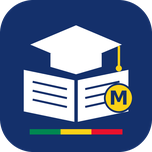
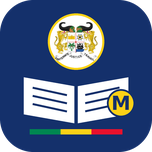
Fiche d'inscription au CEP au modèle officiel, caméra avant / arrière, icône avec les armoiries (depuis EdugestionPro)
Claude-Session: https://claude.ai/code/session_01UeEHkCkcyPMniyrgFNfTcP

Changed region(s): [[0.1316, 0.0789, 0.8947, 0.8158]]

diff --git a/js/docs-modeles.js b/js/docs-modeles.js
@@ -312,111 +312,123 @@
     + echapper(valeur || '') + '</span>';
 
   /**
-   * Reprend la mise en page de la fiche transmise par la Direction
-   * Départementale : mêmes rubriques, mêmes mentions, même ordre.
+   * Fiche d'inscription au CEP : même mise en page que SCOLARIS et GESCOL (modèle Word de la DDEMP reproduit
+   * au point près) — en-tête du MEMP, direction départementale à gauche, titre en cartouche vert à droite,
+   * session et centre, « ÉCOLE DE PROVENANCE », « CANDIDAT (E) » avec photo, « TRÈS IMPORTANT », « AGENT DE
+   * LA DDEMP », signature et cachet du directeur. Les positions sont celles du modèle, en points depuis le haut.
    */
   function ficheCEP(eleve, ins, ecole, annee, fiche, cep, contexte, signataire) {
-    contexte = contexte || {};
-    fiche = fiche || {};
-    const session = fiche.session || ('JUIN ' + (new Date().getFullYear() + 1));
-    const publique = !ecole || ecole.statut !== 'PRIVEE';
+    contexte = contexte || {}; fiche = fiche || {}; eleve = eleve || {}; ecole = ecole || {};
+    const VERT = '#194730', OR = '#A3780D', OR_CL = '#C9962B', BORD = '#BAC4BA', TXT = '#1C1A14', GRIS = '#6B6553';
+    const KY = 0.955, X = x => (x - 24).toFixed(1) + 'pt', Y = y => ((y - 3) * KY).toFixed(1) + 'pt';
+    const out = [];
+    const txt = (x, y, t, o) => {
+      o = o || {};
+      const taille = o.taille || 7.6;
+      out.push('<div style="position:absolute;left:' + (o.centre ? X(o.centre - 200) : X(x)) + ';top:' + (((y - 3) * KY) - taille * 0.85).toFixed(1) + 'pt;'
+        + (o.centre ? 'width:400pt;text-align:center;' : '') + 'white-space:nowrap;font:' + (o.italique ? 'italic ' : '') + (o.gras === false ? '400 ' : '700 ')
+        + taille + 'pt \'Times New Roman\',Times,serif;color:' + (o.coul || VERT) + '">' + echapper(t) + '</div>');
+    };
+    const lab = (x, y, t, taille, coul, gras, ital) => { txt(x, y, t, { taille, coul: coul || VERT, gras, italique: ital }); return x + largeurTimes(t, taille || 7.6, gras !== false); };
+    const champ = (x1, x2, y, v, taille, gras) => {
+      out.push('<div style="position:absolute;left:' + X(x1) + ';top:' + Y(y - 9) + ';width:' + (x2 - x1).toFixed(1) + 'pt;height:' + (10.5 * KY).toFixed(1)
+        + 'pt;border-bottom:.6pt dotted ' + BORD + ';overflow:hidden;white-space:nowrap;text-overflow:ellipsis;padding-left:2pt;box-sizing:border-box;'
+        + 'font:' + (gras ? '700 ' : '400 ') + (taille || 9) + 'pt \'Times New Roman\',Times,serif;line-height:' + (10.5 * KY).toFixed(1) + 'pt;color:' + TXT + '">' + echapper(v || '') + '</div>');
+    };
+    const caseC = (x, y, coche, l) => {
+      out.push('<div style="position:absolute;left:' + X(x) + ';top:' + Y(y - 6) + ';width:7pt;height:7pt;border:.6pt solid ' + TXT + ';font:700 7pt Arial;line-height:7pt;text-align:center;color:' + TXT + '">' + (coche ? 'X' : '') + '</div>');
+      txt(x + 10, y, l, { taille: 8.5, coul: TXT, gras: !!coche });
+    };
+    const section = (y1, y2, titre) => {
+      out.push('<div style="position:absolute;left:' + X(28) + ';top:' + Y(y1) + ';width:523pt;height:' + ((y2 - y1) * KY).toFixed(1) + 'pt;border:.7pt solid ' + BORD + ';box-sizing:border-box"></div>');
+      out.push('<div style="position:absolute;left:' + X(28) + ';top:' + Y(y1) + ';width:523pt;height:' + (15 * KY).toFixed(1) + 'pt;background:' + VERT
+        + ';border-radius:2.5pt;color:#fff;font:700 8.3pt \'Times New Roman\',Times,serif;line-height:' + (15 * KY).toFixed(1) + 'pt;padding-left:11pt;box-sizing:border-box">' + echapper(titre) + '</div>');
+    };
+    const publique = ecole.statut !== 'PRIVEE';
+    const auj = U.dateCourte(new Date().toISOString());
+    const naiss = ((eleve.date_naissance ? U.dateCourte(eleve.date_naissance) : '') + (eleve.lieu_naissance ? ' à ' + eleve.lieu_naissance : '')).trim();
+    const contactParent = ((fiche.parent_contact || '') + (fiche.degre_parente ? ' (' + fiche.degre_parente + ')' : '')).trim();
+    const session = fiche.session || ('JUIN ' + (new Date().getFullYear() + (new Date().getMonth() >= 8 ? 1 : 0)));
 
-    return '<div class="fiche-cep">'
-      + enteteMEMP(contexte.departement)
-      + '<h2>FICHE D’INSCRIPTION À L’EXAMEN DU<br>CERTIFICAT D’ÉTUDES PRIMAIRES (CEP)</h2>'
-      + '<p class="option">OPTION : CEP + entrée en 6ᵉ '
-      + case_(fiche.option_6e !== false) + ' &nbsp;&nbsp; CEP seul ' + case_(fiche.option_6e === false)
-      + ' <em>(rayer la mention inutile)</em></p>'
-      + '<table class="bandeau-session"><tr>'
-      + '<td>SESSION DE : <strong>' + echapper(session) + '</strong></td>'
-      + '<td>CENTRE DE : <strong>' + echapper(fiche.centre || '—') + '</strong></td>'
-      + '</tr></table>'
-
-      + '<h3 class="rubrique">ÉCOLE DE PROVENANCE</h3>'
-      + '<table class="fiche-champs">'
-      + '<tr><td>COMMUNE DE</td><th>' + ligne_(contexte.commune) + '</th></tr>'
-      + '<tr><td>CIRCONSCRIPTION SCOLAIRE DE</td><th>' + ligne_(contexte.circonscription) + '</th></tr>'
-      + '<tr><td>NOM DE L’ÉCOLE</td><th>' + ligne_(ecole ? ecole.nom : '') + '</th></tr>'
-      + '<tr><td>STATUT DE L’ÉCOLE</td><th>'
-      + case_(publique) + ' Publique &nbsp;&nbsp;&nbsp;' + case_(!publique) + ' Privée</th></tr>'
-      + '<tr><td>NOM ET PRÉNOM DU DIRECTEUR OU DE LA DIRECTRICE</td><th>'
-      + ligne_(contexte.directeur) + '</th></tr>'
-      + '<tr><td>CONTACT TÉLÉPHONIQUE DU DIRECTEUR OU DE LA DIRECTRICE</td><th>'
-      + ligne_(contexte.directeurContact) + '</th></tr>'
-      + '</table>'
-
-      + '<h3 class="rubrique">CANDIDAT (E)</h3>'
-      + '<div class="candidat">'
-      + '<table class="fiche-champs">'
-      + '<tr><td>NOM <em>(à écrire en lettres capitales)</em></td><th>'
-      + ligne_((eleve.nom || '').toUpperCase()) + '</th></tr>'
-      + '<tr><td>PRÉNOMS <em>(tous les prénoms sans abréviation, suivant l’ordre et l’orthographe '
-      + 'de la pièce d’état civil)</em></td><th>' + ligne_(eleve.prenoms) + '</th></tr>'
-      + '<tr><td>SEXE</td><th>' + ligne_(eleve.sexe === 'F' ? 'Féminin' : (eleve.sexe === 'M' ? 'Masculin' : '')) + '</th></tr>'
-      + '<tr><td>DATE ET LIEU DE NAISSANCE</td><th>'
-      + ligne_((eleve.date_naissance ? U.dateCourte(eleve.date_naissance) : '') + ' à ' + (eleve.lieu_naissance || '')) + '</th></tr>'
-      + '<tr><td>NUMÉRO EDUCMASTER</td><th>' + ligne_(eleve.educmaster_matricule) + '</th></tr>'
-      + '</table>'
-      + '<div class="candidat-visuels">'
-      + '<div class="photo-candidat"><small>Photo du candidat</small></div>'
-      + qrEleve(eleve, ins, ecole, annee, 78)
-      + '</div>'
-      + '</div>'
-
-      + '<table class="fiche-champs">'
-      + '<tr><td>ÉTABLISSEMENTS CHOISIS <em>(trois établissements par ordre de préférence, '
-      + 'sans abréviation)</em></td><th>'
-      + '1 - ' + ligne_(fiche.etablissement_1) + '<br>'
-      + '2 - ' + ligne_(fiche.etablissement_2) + '<br>'
-      + '3 - ' + ligne_(fiche.etablissement_3) + '</th></tr>'
-      + '<tr><td>RÉSIDENCE DES PARENTS</td><th>' + ligne_(fiche.residence_parents) + '</th></tr>'
-      + '<tr><td>DISPENSE D’ÂGE</td><th>'
-      + case_(fiche.dispense_age) + ' Oui &nbsp;&nbsp;&nbsp;' + case_(!fiche.dispense_age) + ' Non</th></tr>'
-      + '<tr><td>DISPENSE DE SPORT</td><th>'
-      + case_(fiche.dispense_sport) + ' Oui &nbsp;&nbsp;&nbsp;' + case_(!fiche.dispense_sport) + ' Non</th></tr>'
-      + (cep && cep.numero_table ? '<tr><td>NUMÉRO DE TABLE</td><th>' + ligne_(cep.numero_table) + '</th></tr>' : '')
-      + '</table>'
-
-      + '<p class="certification">Je certifie exacts les renseignements ci-dessus.</p>'
-      + '<p class="lieu-date">Fait à ' + echapper(contexte.commune || '') + ' , le '
-      + echapper(U.dateCourte(new Date().toISOString())) + '</p>'
-      + '<table class="signatures-fiche"><tr>'
-      + '<td>NOM, PRÉNOM ET SIGNATURE DU PARENT :<br>' + ligne_(fiche.parent_nom)
-      + '<div class="espace-signature"></div></td>'
-      + '<td>CONTACT TÉLÉPHONIQUE DU PARENT :<br>' + ligne_(fiche.parent_contact)
-      + '<br><em>(degré de parenté : ' + echapper(fiche.degre_parente || '—') + ')</em></td>'
-      + '<td>SIGNATURE DU (DE LA) CANDIDAT (E) :'
-      + (eleve.signature_image
-        ? '<img class="signature-trace" src="' + eleve.signature_image + '" alt="Signature du candidat">'
-        : '<div class="espace-signature"></div>') + '</td>'
-      + '</tr></table>'
-
-      + '<table class="cadre-ddemp"><tr><th colspan="3">AGENT DE LA DDEMP</th></tr><tr>'
-      + '<td>DOSSIER ÉTUDIÉ PAR : ' + ligne_(fiche.dossier_etudie_par) + '</td>'
-      + '<td>CODE : ' + ligne_(fiche.code_ddemp) + '</td>'
-      + '<td>COLLATIONNÉ PAR : ' + ligne_(fiche.collationne_par) + '</td>'
-      + '</tr></table>'
-
-      + '<div class="tres-important"><strong>TRÈS IMPORTANT :</strong>'
-      + '<ul>'
-      + '<li>Les Directeurs d’écoles doivent remplir les fiches d’inscription conformément aux '
-      + 'informations telles qu’inscrites sur les actes de naissance. Ils doivent collationner les '
-      + 'différentes listes envoyées par la DDEMP afin que la liste d’inscription porte la bonne '
-      + 'graphie des noms et prénoms, date et lieu de naissance, sexe et école de provenance des candidats.</li>'
-      + '<li>Les Directeurs doivent s’assurer que sur les listes d’inscription, le nom de leur école '
-      + 'est exclusivement porté devant chacun de leurs candidats afin de garantir la fiabilité des '
-      + 'statistiques des résultats par école.</li>'
-      + '<li>Les Directeurs doivent associer les parents d’élèves aux choix des établissements '
-      + 'd’accueil de l’enseignement secondaire en cas de succès.</li>'
-      + '</ul></div>'
-
-      + '<p class="lieu-date">Certifié à ' + echapper(contexte.commune || '') + ' , le '
-      + echapper(U.dateCourte(new Date().toISOString())) + '</p>'
-      + '<div class="bloc-signature fiche-signature">'
-      + caseSignature(signataire, 'Le Directeur')
-      + '<div class="cachet-case">' + D.cachetComplet(ecole) + '</div>'
-      + '</div>'
-      + '</div>';
+    /* en-tête du MEMP */
+    out.push('<img src="' + ressource('embleme-memp.png') + '" alt="République du Bénin — MEMP" style="position:absolute;left:' + X(28) + ';top:' + Y(5) + ';width:523pt;height:' + (50 * KY).toFixed(1) + 'pt;object-fit:contain;object-position:left center">');
+    out.push('<div style="position:absolute;left:' + X(27) + ';top:' + Y(57) + ';width:525pt;border-top:1.4pt solid ' + OR_CL + '"></div>');
+    /* direction départementale + cartouche du titre */
+    txt(0, 80, 'Direction Départementale des Enseignements', { centre: 157, taille: 8.3, coul: TXT });
+    txt(0, 91, 'Maternel et Primaire : ' + (contexte.departement || '……………………'), { centre: 157, taille: 8.3, coul: TXT });
+    txt(0, 107, 'Service des Examens et Concours', { centre: 157, taille: 8.3, coul: TXT, gras: false });
+    out.push('<div style="position:absolute;left:' + X(287) + ';top:' + Y(67) + ';width:264pt;height:' + (54 * KY).toFixed(1) + 'pt;background:' + VERT + ';border-radius:5pt;color:#fff;text-align:center;font-family:\'Times New Roman\',Times,serif">'
+      + '<div style="font:700 11.5pt \'Times New Roman\',Times,serif;margin-top:5pt;line-height:12.4pt">FICHE D’INSCRIPTION À L’EXAMEN DU<br>CERTIFICAT D’ÉTUDES PRIMAIRES (CEP)</div>'
+      + '<div style="font-size:6.8pt;color:' + OR_CL + '">OPTION : CEP ' + (fiche.option_6e === false ? '<s style="text-decoration-color:#fff">+ entrée en 6è</s>' : '+ entrée en 6è') + '</div>'
+      + '<div style="font:italic 5pt \'Times New Roman\',Times,serif;color:#E3E8E3">(Rayer la mention inutile)</div></div>');
+    /* session, centre */
+    lab(178, 139, 'SESSION DE :', 8.3, TXT); champ(244, 363, 139, session, 8.5, true);
+    lab(178, 153, 'CENTRE DE :', 8.3, TXT); champ(244, 385, 153, fiche.centre || '', 8.5, true);
+    /* école de provenance */
+    section(168, 286, 'ÉCOLE DE PROVENANCE');
+    let x = lab(36, 201, 'COMMUNE DE :'); champ(x + 4, 270, 201, contexte.commune || ecole.commune);
+    x = lab(284, 201, 'CIRCONSCRIPTION SCOLAIRE DE :'); champ(x + 4, 543, 201, contexte.circonscription);
+    x = lab(36, 219, 'NOM DE L’ÉCOLE :'); champ(x + 4, 543, 219, ecole.nom);
+    lab(36, 237, 'STATUT DE L’ÉCOLE :'); caseC(134, 237, publique, 'Publique'); caseC(195, 237, !publique, 'Privée');
+    x = lab(36, 255, 'NOM ET PRÉNOM DU DIRECTEUR OU DE LA DIRECTRICE :'); champ(x + 4, 543, 255, contexte.directeur || ecole.directeur_nom);
+    x = lab(36, 273, 'CONTACT TÉLÉPHONIQUE DU DIRECTEUR OU DE LA DIRECTRICE :'); champ(x + 4, 543, 273, contexte.directeurContact || ecole.directeur_telephone);
+    /* candidat */
+    section(293, 592, 'CANDIDAT (E)');
+    out.push('<div style="position:absolute;left:' + X(468) + ';top:' + Y(318) + ';width:76pt;height:' + (85 * KY).toFixed(1) + 'pt;border:.9pt solid ' + VERT + ';border-radius:4pt;background:#EDF5ED;overflow:hidden">'
+      + (eleve.photo ? '<img src="' + eleve.photo + '" alt="Photo du candidat" style="width:100%;height:100%;object-fit:cover">' : '') + '</div>');
+    txt(0, 411, 'Photo du candidat', { centre: 506, taille: 5.2, coul: GRIS, gras: false, italique: true });
+    x = lab(36, 328, 'NOM :'); champ(x + 4, 457, 328, (eleve.nom || '').toUpperCase(), 9.5, true);
+    lab(38, 338.5, '(À écrire en lettres capitales)', 5, GRIS, false, true);
+    x = lab(36, 350, 'PRÉNOMS :'); champ(x + 4, 457, 350, eleve.prenoms, 9.5);
+    lab(38, 359.5, '(Écrire tous les prénoms sans abréviation suivant l’ordre et l’orthographe de la pièce d’état civil)', 5, GRIS, false, true);
+    x = lab(36, 371, 'SEXE :'); champ(x + 4, 197, 371, eleve.sexe === 'F' ? 'Féminin' : eleve.sexe === 'M' ? 'Masculin' : '');
+    x = lab(210, 371, 'DATE ET LIEU DE NAISSANCE :'); champ(x + 4, 457, 371, naiss);
+    x = lab(36, 390, 'NUMÉRO EDUCMASTER :'); champ(x + 4, 457, 390, eleve.educmaster_matricule || (cep && cep.numero_table ? 'N° de table ' + cep.numero_table : ''));
+    x = lab(36, 408, 'ÉTABLISSEMENTS CHOISIS'); lab(x + 8, 408, '(trois établissements par ordre de préférence, sans abréviation)', 5.4, GRIS, false, true);
+    [fiche.etablissement_1, fiche.etablissement_2, fiche.etablissement_3].forEach((e, k) => { const y = 422 + 15.5 * k; lab(36, y, (k + 1) + ' -', 7.6, TXT); champ(56, 457, y, e); });
+    x = lab(36, 475, 'RÉSIDENCE DES PARENTS :'); champ(x + 4, 543, 475, fiche.residence_parents);
+    lab(36, 493, 'DISPENSE D’ÂGE :'); caseC(118, 493, !!fiche.dispense_age, 'Oui'); caseC(157, 493, !fiche.dispense_age, 'Non');
+    lab(215, 493, 'DISPENSE DE SPORT :'); caseC(312, 493, !!fiche.dispense_sport, 'Oui'); caseC(351, 493, !fiche.dispense_sport, 'Non');
+    lab(36, 509, 'Je certifie exacts les renseignements ci-dessus.', 7.8, TXT, false, true);
+    lab(154, 525, 'Fait à', 7.8, TXT, false); champ(185, 298, 525, contexte.commune || ecole.commune);
+    lab(311, 525, 'le', 7.8, TXT, false); champ(325, 430, 525, auj);
+    x = lab(36, 542, 'NOM, PRÉNOM ET SIGNATURE DU PARENT :'); champ(x + 4, 543, 542, fiche.parent_nom);
+    x = lab(36, 561, 'CONTACT TÉLÉPHONIQUE DU PARENT :'); champ(x + 4, 543, 561, contactParent);
+    lab(38, 571.5, '(Préciser le degré de parenté)', 5, GRIS, false, true);
+    x = lab(36, 582, 'SIGNATURE DU (DE LA) CANDIDAT (E) :'); champ(x + 4, 543, 582, '');
+    if (eleve.signature_image) out.push('<img src="' + eleve.signature_image + '" alt="Signature du candidat" style="position:absolute;left:' + X(x + 30) + ';top:' + Y(568) + ';height:' + (17 * KY).toFixed(1) + 'pt">');
+    /* très important */
+    lab(28, 605, 'TRÈS IMPORTANT :', 8.3, TXT);
+    out.push('<div style="position:absolute;left:' + X(28) + ';top:' + Y(608) + ';width:525pt;font:6.4pt/7.3pt \'Times New Roman\',Times,serif;color:' + TXT + '">'
+      + NOTES_CEP.map((n, k) => '<div style="padding-left:8pt;text-indent:-8pt;margin-bottom:.5pt">' + (k + 1) + '. ' + echapper(n) + '</div>').join('') + '</div>');
+    lab(375, 668, 'Certifié à', 8, TXT, false); champ(413, 470, 668, contexte.commune || ecole.commune, 8);
+    lab(470, 668, ', le', 8, TXT, false); champ(486, 551, 668, auj, 8);
+    /* agent de la DDEMP */
+    out.push('<div style="position:absolute;left:' + X(28) + ';top:' + Y(694) + ';width:280pt;height:' + (75 * KY).toFixed(1) + 'pt;background:#FAF5ED;border:.7pt solid #DED6BF;box-sizing:border-box"></div>');
+    out.push('<div style="position:absolute;left:' + X(28) + ';top:' + Y(694) + ';width:280pt;height:' + (16 * KY).toFixed(1) + 'pt;background:' + OR + ';border-radius:3pt;color:#fff;font:700 8.3pt \'Times New Roman\',Times,serif;line-height:' + (16 * KY).toFixed(1) + 'pt;padding-left:11pt;box-sizing:border-box">AGENT DE LA DDEMP</div>');
+    ['DOSSIER ÉTUDIÉ PAR :', 'CODE :', 'COLLATIONNÉ PAR :'].forEach((t, k) => { const yy = 726 + 18 * k; const xx = lab(36, yy, t, 7); champ(xx + 4, 300, yy, [fiche.dossier_etudie_par, fiche.code_ddemp, fiche.collationne_par][k]); });
+    /* le directeur : titre, cachet, signature, nom */
+    const titreDir = /^LA /i.test(ecole.cachet_centre || '') ? 'LA DIRECTRICE' : 'LE DIRECTEUR';
+    txt(0, 714, titreDir, { centre: 358, taille: 8.3, coul: TXT });
+    txt(0, 735, '(Nom, prénom, signature et', { centre: 358, taille: 5.5, coul: GRIS, gras: false, italique: true });
+    txt(0, 743, 'cachet du Directeur)', { centre: 358, taille: 5.5, coul: GRIS, gras: false, italique: true });
+    out.push('<div style="position:absolute;left:' + X(408) + ';top:' + Y(698) + ';width:64pt;height:64pt">' + cachet(ecole, { taille: 64 }) + '</div>');
+    const griffeDir = D.griffeEcole(ecole, 120);
+    if (griffeDir && (ecole.cachet_type || 'ROND_ET_GRIFFE') !== 'ROND') out.push('<div style="position:absolute;left:' + X(476) + ';top:' + Y(702) + ';width:76pt">' + griffeDir.replace('<svg class="griffe"', '<svg class="griffe" style="width:76pt;height:auto"') + '</div>');
+    if (signataire && signataire.signature_image) out.push('<img src="' + signataire.signature_image + '" alt="Signature du directeur" style="position:absolute;left:' + X(418) + ';top:' + Y(708) + ';width:110pt;height:' + (40 * KY).toFixed(1) + 'pt;object-fit:contain">');
+    out.push('<div style="position:absolute;left:' + X(397) + ';top:' + Y(750) + ';width:154pt;border-top:.6pt solid ' + BORD + '"></div>');
+    txt(0, 760, contexte.directeur || ecole.directeur_nom || (signataire ? ((signataire.prenoms || '') + ' ' + (signataire.nom || '')).trim() : ''), { centre: 474, taille: 8.3, coul: TXT });
+    return '<div class="fiche-cep-officielle" style="-webkit-print-color-adjust:exact;print-color-adjust:exact;position:relative;width:535pt;height:' + (772 * KY).toFixed(0) + 'pt;margin:0 auto;overflow:hidden;color:' + TXT + '">' + out.join('') + '</div>';
+  }
+  const NOTES_CEP = [
+    'Les Directeurs d’écoles doivent remplir les fiches d’inscription conformément aux informations telles qu’inscrites sur les actes de naissance. Ils doivent collationner les différentes listes envoyées par la DDEMP afin que la liste d’inscription porte la bonne graphie des noms et prénoms, date et lieu de naissance, sexe et école de provenance des candidats.',
+    'Les Directeurs doivent s’assurer que sur les listes d’inscription, le nom de leur école est exclusivement porté devant chacun de leurs candidats afin de garantir la fiabilité des statistiques des résultats par école.',
+    'Les Directeurs doivent associer les parents d’élèves aux choix des établissements d’accueil de l’enseignement secondaire en cas de succès.'
+  ];
+  let _mes = null;
+  function largeurTimes(t, taille, gras) {
+    try { _mes = _mes || document.createElement('canvas').getContext('2d'); _mes.font = (gras ? 'bold ' : '') + taille + 'pt "Times New Roman", Times, serif'; return _mes.measureText(t).width * 0.75; }
+    catch (e) { return t.length * taille * 0.55; }
   }
 
   /* Feuille de style embarquée dans la fenêtre d'impression. */

diff --git a/js/camera.js b/js/camera.js
@@ -86,6 +86,14 @@
             : e && e.name === 'NotFoundError' ? 'Aucune caméra détectée sur cet appareil.' : 'Caméra inaccessible : ' + ((e && e.message) || e);
         }
       }
+      async function choisirFace(f) {
+        if (f === face && flux) return;
+        const cams = await camerasVideo(), re = f === 'user' ? /front|avant|user|selfie/i : /back|arri[eè]re|rear|environment/i;
+        const parNom = cams.filter(c => re.test(c.label || ''));
+        face = f;
+        appareil = parNom.length ? parNom[0].deviceId : (choisirCamera(cams, face, appareil) || '');
+        demarrer();
+      }
       async function basculer() {
         face = face === 'user' ? 'environment' : 'user';
         appareil = choisirCamera(await camerasVideo(), face, appareil) || '';
@@ -113,7 +121,9 @@
           el('button', { class: 'icone-btn', type: 'button', 'aria-label': 'Fermer', text: '✕', onclick: () => terminer(null) })]),
         el('div', { class: 'modal-corps' }, [video, info]),
         el('div', { class: 'modal-pied', style: 'display:flex;flex-wrap:wrap;gap:8px' }, [
-          el('button', { class: 'btn btn-fantome', type: 'button', text: '🔄 Avant ⇄ Arrière', title: 'Basculer caméra avant / arrière', onclick: basculer }),
+          el('button', { class: 'btn btn-fantome', type: 'button', text: '🤳 Caméra avant', title: 'Caméra de face (selfie)', onclick: () => choisirFace('user') }),
+          el('button', { class: 'btn btn-fantome', type: 'button', text: '📷 Caméra arrière', title: 'Caméra du dos du téléphone', onclick: () => choisirFace('environment') }),
+          el('button', { class: 'btn btn-fantome', type: 'button', text: '🔄 Basculer', title: 'Basculer caméra avant / arrière', onclick: basculer }),
           el('button', { class: 'btn btn-primaire', type: 'button', text: '📸 Prendre la photo', onclick: declencher }),
           el('button', { class: 'btn btn-fantome', type: 'button', text: 'Annuler', onclick: () => terminer(null) })
         ])

diff --git a/js/docs-styles.js b/js/docs-styles.js
@@ -38,6 +38,7 @@
     .fi-signature-parent { display: flex; justify-content: flex-end; gap: 8px; align-items: flex-end; margin: 6px 0; font-size: 9.5px; }
     .fi-cadre { display: inline-block; width: 55mm; height: 14mm; border-bottom: .3mm dotted #647067; }
     .fi-cartes { margin-top: 4px; }
+    .fiche-cep-officielle, .fiche-cep-officielle * { -webkit-print-color-adjust: exact; print-color-adjust: exact; }
     .cachets-duo { display: inline-flex; align-items: center; gap: 8px; }
     .griffe { transform: rotate(-3deg); opacity: .95; max-width: 46vw; height: auto; }
     .fiche-signature .griffe, .cert-signature .griffe { width: 150px; }

diff --git a/sw.js b/sw.js
@@ -1,6 +1,6 @@
 /* ÉduGestion Pro Master — service worker : l'application démarre sans réseau. */
 const PREFIXE = 'edugestion-master-v';
-const CACHE = PREFIXE + '6.15.1';
+const CACHE = PREFIXE + '6.15.2';
 const PORTEE = new URL(self.registration.scope).pathname;
 const RESSOURCES = [
   './', './index.html', './verification.html', './manifest.webmanifest', './css/app.css',
